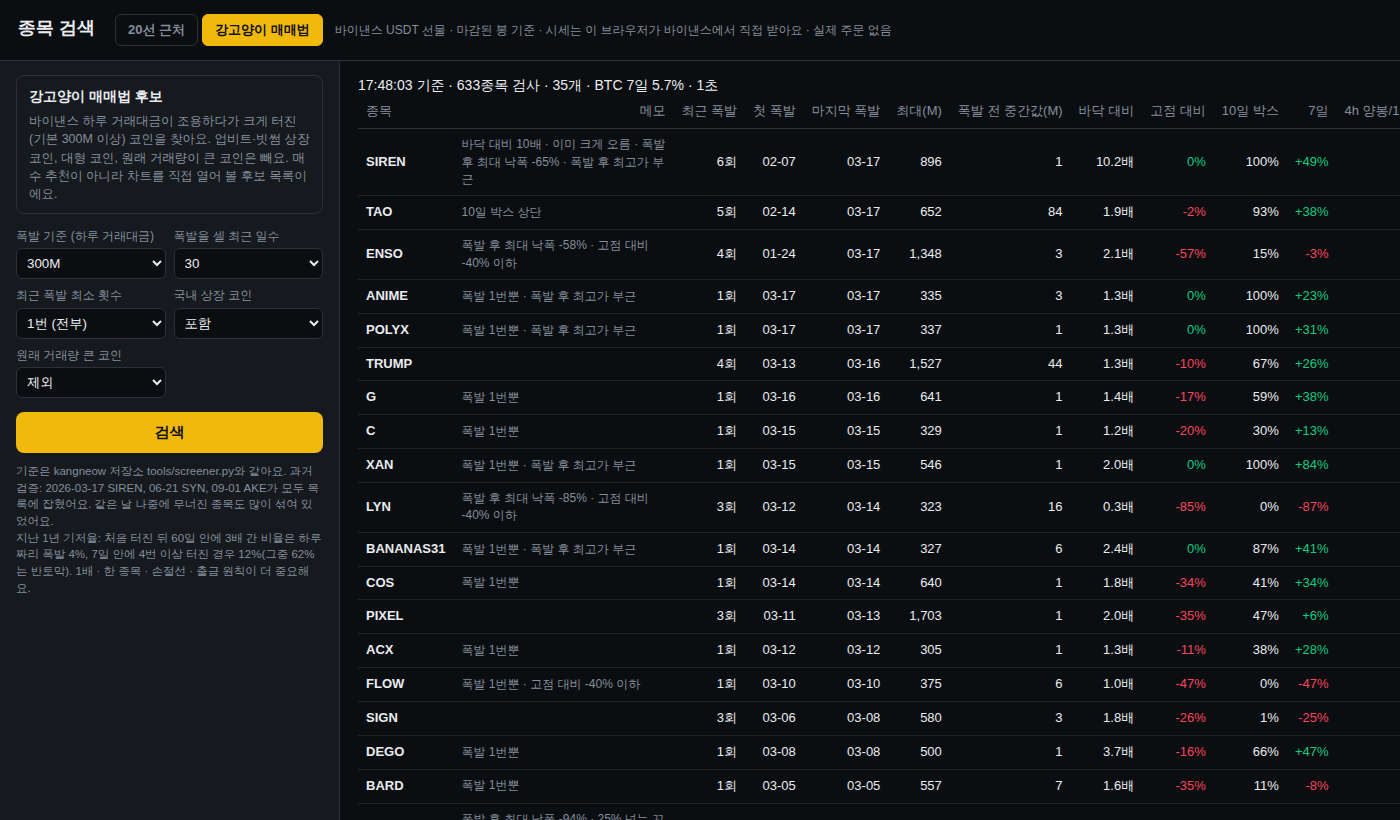
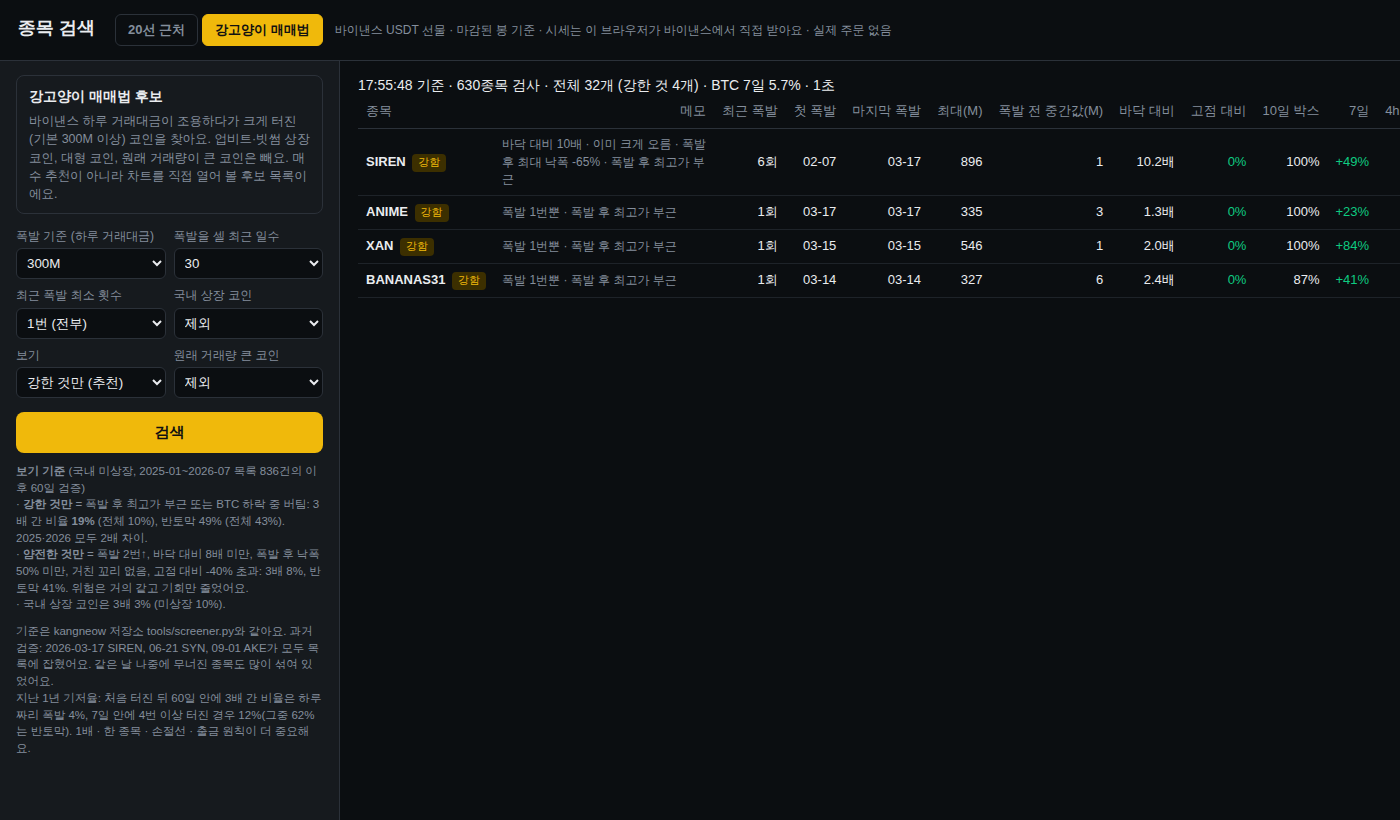
강고양이 탭: '강한 것만' 보기 (폭발 후 최고가 부근 or BTC 하락 중 버팀, 60일 3배 19% vs 10%)
Claude-Session: https://claude.ai/code/session_01FCsVRrZo8tR4JvHgEowqiV

diff --git a/index.html b/index.html
@@ -53,9 +53,14 @@ tr:hover td{background:#1e2329}a{color:var(--text);font-weight:600;text-decorati
 <label>폭발을 셀 최근 일수<select id="kdays"><option>14</option><option selected>30</option><option>60</option></select></label>
 <label>최근 폭발 최소 횟수<select id="kmin"><option value="1" selected>1번 (전부)</option><option value="2">2번 (하루짜리 제외)</option><option value="4">4번 이상</option></select></label>
 <label>국내 상장 코인<select id="kkr"><option value="0" selected>제외</option><option value="1">포함</option></select></label>
+<label>보기<select id="kview"><option value="strong" selected>강한 것만 (추천)</option><option value="all">전부</option><option value="calm">얌전한 것만</option></select></label>
 <label>원래 거래량 큰 코인<select id="kbig"><option value="0" selected>제외</option><option value="1">포함</option></select></label>
 </div>
 <button id="kgo">검색</button>
+<div class="note"><b>보기 기준</b> (국내 미상장, 2025-01~2026-07 목록 836건의 이후 60일 검증)<br>
+· <b>강한 것만</b> = 폭발 후 최고가 부근 또는 BTC 하락 중 버팀: 3배 간 비율 <b>19%</b> (전체 10%), 반토막 49% (전체 43%). 2025·2026 모두 2배 차이.<br>
+· <b>얌전한 것만</b> = 폭발 2번↑, 바닥 대비 8배 미만, 폭발 후 낙폭 50% 미만, 거친 꼬리 없음, 고점 대비 -40% 초과: 3배 8%, 반토막 41%. 위험은 거의 같고 기회만 줄었어요.<br>
+· 국내 상장 코인은 3배 3% (미상장 10%).<br></div>
 <div class="note">기준은 kangneow 저장소 tools/screener.py와 같아요. 과거 검증: 2026-03-17 SIREN, 06-21 SYN, 09-01 AKE가 모두 목록에 잡혔어요. 같은 날 나중에 무너진 종목도 많이 섞여 있었어요.<br>지난 1년 기저율: 처음 터진 뒤 60일 안에 3배 간 비율은 하루짜리 폭발 4%, 7일 안에 4번 이상 터진 경우 12%(그중 62%는 반토막). 1배 · 한 종목 · 손절선 · 출금 원칙이 더 중요해요.</div>
 </aside>
 <section><div id="kstatus">조건을 고르고 검색을 누르세요. 전체 종목 일봉을 받느라 1분 정도 걸려요.</div><div id="kout"></div></section></main>
@@ -194,17 +199,22 @@ async function kscan(o){const st=document.getElementById('kstatus'),t0=Date.now(
     d=>{st.textContent=`일봉 받는 중… ${d}/${cand.length}`})).filter(r=>r&&(o.big||!r.alwaysBig));
   res.sort((a,b)=>a.last<b.last?1:a.last>b.last?-1:b.bursts-a.bursts);
   return{res,btcRet7,n:cand.length,krWarn:!o.kr&&kr.ok<3,secs:((Date.now()-t0)/1000).toFixed(0)}}
-function krender(j){const out=document.getElementById('kout');
-  if(!j.res.length){out.innerHTML='<div class="empty">기준에 맞는 종목이 없어요. 쉬는 때일 수 있어요.</div>';return}
+const kStrong=r=>r.flags.some(f=>f.includes('최고가 부근')||f.includes('버팀'));
+const kCalm=r=>r.bursts>=2&&r.runup<8&&r.mdd<0.5&&!r.flags.some(f=>f.includes('꼬리'))&&r.fromHi>-0.4;
+let KJ=null;
+function krender(j){KJ=j;const out=document.getElementById('kout');const v=document.getElementById('kview').value;
+  j={...j,res:j.res.filter(r=>v==='all'||(v==='strong'?kStrong(r):kCalm(r)))};
+  if(!j.res.length){out.innerHTML=`<div class="empty">이 보기에 맞는 종목이 없어요${v!=='all'?` (전체 ${KJ.res.length}개)`:''}. 쉬는 때일 수 있어요.</div>`;return}
   const pc=v=>(v>0?'+':'')+(v*100).toFixed(0)+'%';
   let h='<table><thead><tr><th>종목</th><th>메모</th><th>최근 폭발</th><th>첫 폭발</th><th>마지막 폭발</th><th>최대(M)</th><th>폭발 전 중간값(M)</th><th>바닥 대비</th><th>고점 대비</th><th>10일 박스</th><th>7일</th><th>4h 양봉/12</th><th>4h 저점상승/12</th></tr></thead><tbody>';
-  for(const r of j.res)h+=`<tr><td><a href="https://www.binance.com/ko/futures/${r.symbol}" target="_blank">${r.base}</a></td><td class="memo">${r.flags.join(' · ')}</td><td>${r.bursts}회</td><td>${r.first.slice(5)}</td><td>${r.last.slice(5)}</td>
+  for(const r of j.res)h+=`<tr><td><a href="https://www.binance.com/ko/futures/${r.symbol}" target="_blank">${r.base}</a>${kStrong(r)?' <span class="tag s">강함</span>':''}</td><td class="memo">${r.flags.join(' · ')}</td><td>${r.bursts}회</td><td>${r.first.slice(5)}</td><td>${r.last.slice(5)}</td>
    <td>${r.maxb.toLocaleString(undefined,{maximumFractionDigits:0})}</td><td>${r.pre.toFixed(0)}</td><td>${r.runup.toFixed(1)}배</td><td class="${r.fromHi>=0?'up':'dn'}">${pc(r.fromHi)}</td>
    <td>${(r.pos*100).toFixed(0)}%</td><td class="${r.ret7>=0?'up':'dn'}">${pc(r.ret7)}</td><td>${r.bull4??'-'}</td><td>${r.hl4??'-'}</td></tr>`;
   out.innerHTML=h+'</tbody></table>'}
+document.getElementById('kview').onchange=()=>KJ&&krender(KJ);
 document.getElementById('kgo').onclick=async()=>{const b=document.getElementById('kgo'),st=document.getElementById('kstatus');b.disabled=true;b.textContent='검색 중…';
   try{const j=await kscan({vol:+kvol.value,days:+kdays.value,min:+kmin.value,kr:kkr.value==='1',big:kbig.value==='1'});krender(j);
-    st.textContent=`${new Date().toTimeString().slice(0,8)} 기준 · ${j.n}종목 검사 · ${j.res.length}개 · BTC 7일 ${j.btcRet7==null?'-':(j.btcRet7*100).toFixed(1)+'%'} · ${j.secs}초`+(j.krWarn?' · 주의: 업비트·빗썸 목록을 일부 못 받아서 국내 상장 코인이 섞였을 수 있어요':'')}
+    st.textContent=`${new Date().toTimeString().slice(0,8)} 기준 · ${j.n}종목 검사 · 전체 ${j.res.length}개 (강한 것 ${j.res.filter(kStrong).length}개) · BTC 7일 ${j.btcRet7==null?'-':(j.btcRet7*100).toFixed(1)+'%'} · ${j.secs}초`+(j.krWarn?' · 주의: 업비트·빗썸 목록을 일부 못 받아서 국내 상장 코인이 섞였을 수 있어요':'')}
   catch(e){st.textContent='오류: '+e.message+' — 바이낸스가 막힌 지역/네트워크(미국 IP, 일부 VPN)에서는 안 돼요.'}
   b.disabled=false;b.textContent='검색'};
 
